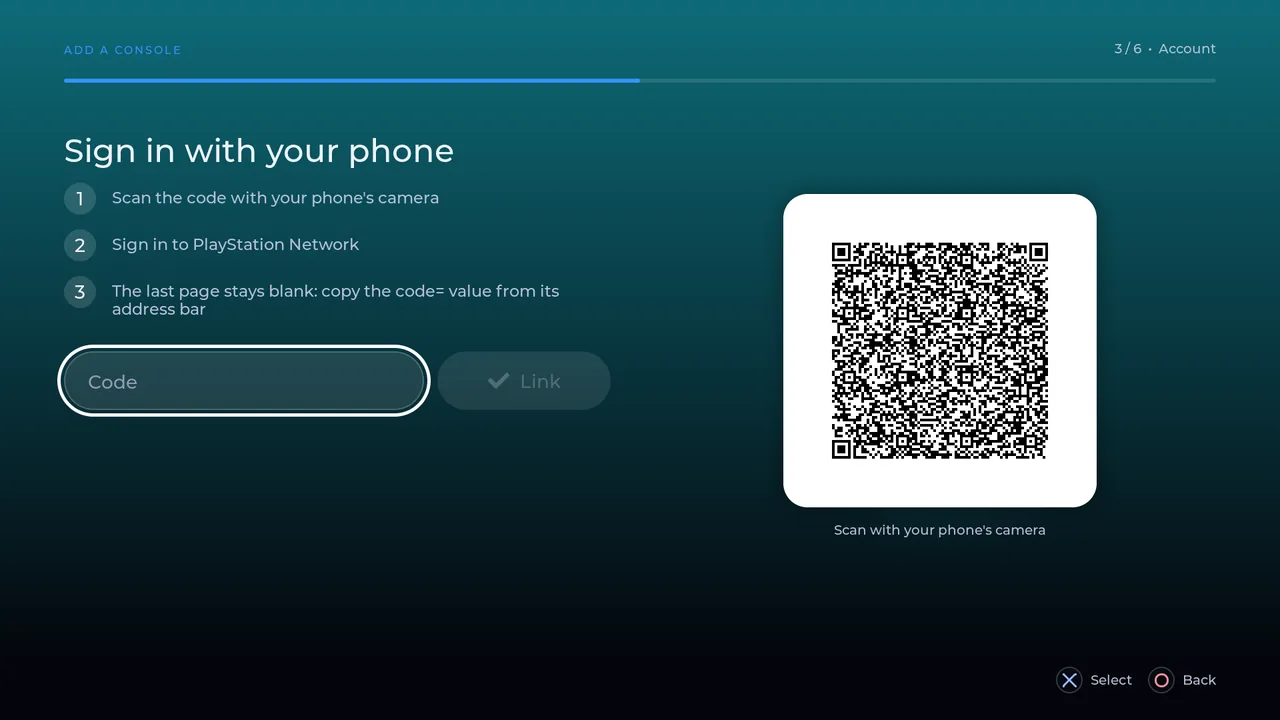
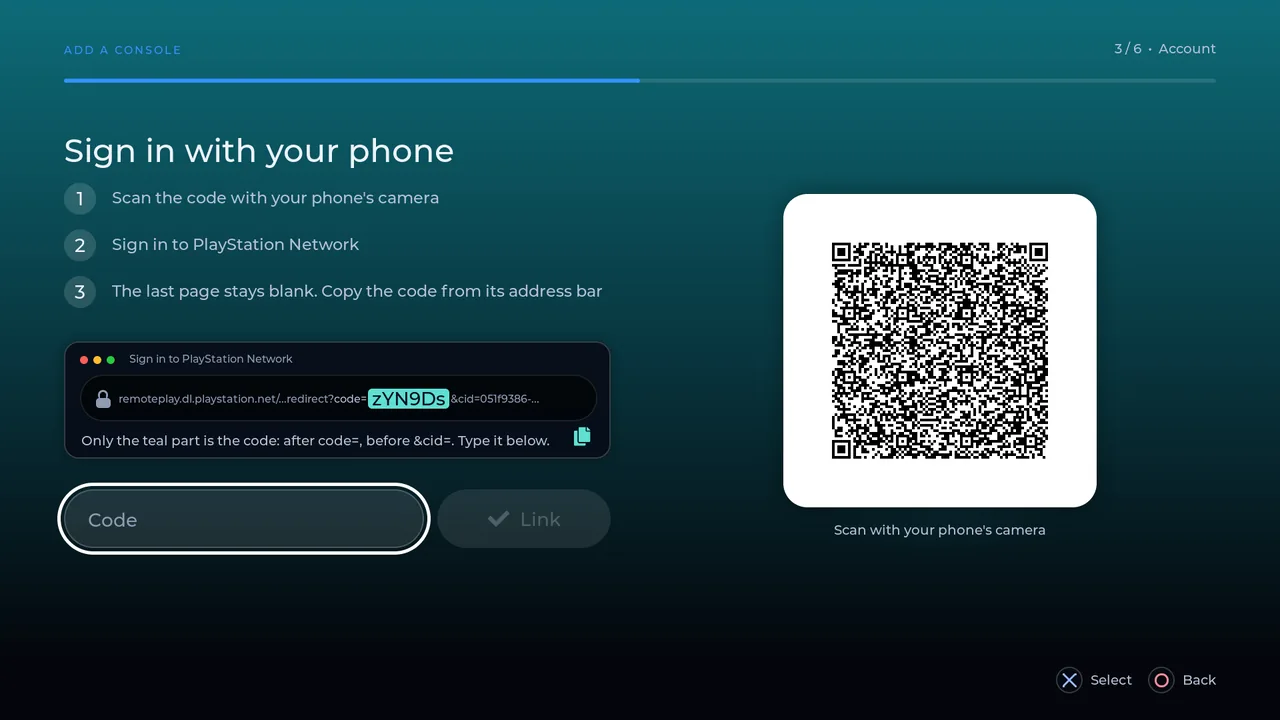
enhance: show the PSN code in a browser window on the sign-in screen

diff --git a/src/ui/register.c b/src/ui/register.c
@@ -551,11 +551,74 @@ static void done_show(void) {
 
 /* ----- PSN sign-in ----- */
 
+/* The redirect page's address, drawn as the browser window it is. The code ends where the cid
+ * starts, so both boundaries stay on screen and only the code is lit. The values are examples;
+ * the phone shows the live ones. */
+#define PSN_ADDR_URL  "remoteplay.dl.playstation.net/...redirect?"
+#define PSN_ADDR_CODE "zYN9Ds"
+#define PSN_ADDR_TAIL "&cid=051f9386-..."
+
+/* a padlock, drawn: an arch over a body, as a browser shows a secure page */
+static lv_obj_t *psn_lock(lv_obj_t *parent) {
+    lv_obj_t *o = ctl_obj(parent);
+    lv_obj_set_size(o, 22, 27);
+    lv_obj_t *sh = ctl_obj(o);
+    lv_obj_set_size(sh, 15, 15);
+    lv_obj_set_pos(sh, 3, 0);
+    lv_obj_set_style_radius(sh, LV_RADIUS_CIRCLE, 0);
+    lv_obj_set_style_border_width(sh, 3, 0);
+    lv_obj_set_style_border_color(sh, C(COL_MUTED), 0);
+    lv_obj_set_style_border_side(sh, LV_BORDER_SIDE_LEFT | LV_BORDER_SIDE_TOP | LV_BORDER_SIDE_RIGHT, 0);
+    lv_obj_set_pos(ctl_rect(o, 22, 15, 5, COL_MUTED, LV_OPA_COVER), 0, 12);
+    return o;
+}
+
+/* the address bar: the address, code= and the code, then the cid that follows it */
+static lv_obj_t *psn_addr_bar(lv_obj_t *parent) {
+    lv_obj_t *bar = ctl_rect(parent, MAIN_W - 44, 70, 35, COL_SHADE, 150);
+    lv_obj_set_style_border_width(bar, 2, 0);
+    lv_obj_set_style_border_color(bar, lv_color_white(), 0);
+    lv_obj_set_style_border_opa(bar, 28, 0);
+    lv_obj_t *lock = psn_lock(bar);
+    lv_obj_align(lock, LV_ALIGN_LEFT_MID, 22, 1);
+    lv_obj_t *url = ctl_label(bar, FONT_SMALL, COL_MUTED, PSN_ADDR_URL);
+    lv_obj_align_to(url, lock, LV_ALIGN_OUT_RIGHT_MID, 12, 0);
+    lv_obj_t *eq = ctl_label(bar, FONT_SMALL, COL_SUBTLE, "code=");
+    lv_obj_align_to(eq, url, LV_ALIGN_OUT_RIGHT_MID, 0, 0);
+    lv_obj_t *code = ctl_label(bar, FONT_HEADING, COL_ON_FROST, PSN_ADDR_CODE);
+    lv_obj_set_style_bg_color(code, C(COL_PSN_HI), 0);
+    lv_obj_set_style_bg_opa(code, LV_OPA_COVER, 0);
+    lv_obj_set_style_radius(code, 6, 0);
+    lv_obj_set_style_pad_hor(code, 6, 0);
+    lv_obj_align_to(code, eq, LV_ALIGN_OUT_RIGHT_MID, 2, 0);
+    lv_obj_t *tail = ctl_label(bar, FONT_SMALL, COL_MUTED, PSN_ADDR_TAIL);
+    lv_obj_align_to(tail, code, LV_ALIGN_OUT_RIGHT_MID, 2, 0);
+    return bar;
+}
+
+/* the browser window: its dots, the tab, the address bar, and the line that says what to type */
+static void psn_browser(lv_obj_t *m) {
+    lv_obj_t *win = ctl_rect(m, MAIN_W, 176, 22, COL_SHEET, 225);
+    frost(win, LV_OPA_20);
+    lv_obj_set_style_shadow_width(win, 40, 0);
+    lv_obj_set_style_shadow_opa(win, LV_OPA_40, 0);
+    static const uint32_t dots[3] = { 0xff5f57, 0xffbd2e, 0x28c840 };
+    for (int i = 0; i < 3; i++)
+        lv_obj_set_pos(ctl_rect(win, 12, 12, LV_RADIUS_CIRCLE, dots[i], LV_OPA_COVER), 22 + i * 20, 20);
+    lv_obj_set_pos(ctl_label(win, FONT_SMALL, COL_MUTED, "Sign in to PlayStation Network"), 96, 15);
+    lv_obj_set_pos(psn_addr_bar(win), 22, 48);
+    lv_obj_set_pos(ctl_label(win, FONT_CAPTION, COL_SUBTLE,
+                             "Only the teal part is the code: after code=, before &cid=. Type it below."),
+                   24, 136);
+    lv_obj_t *cp = ctl_label(win, FONT_HEADING, COL_PSN_HI, LV_SYMBOL_COPY);
+    lv_obj_align(cp, LV_ALIGN_BOTTOM_RIGHT, -28, -16);
+}
+
 static void build_psn(void) {
     lv_obj_t *m = col(REG_PSN);
     title(m, "Sign in with your phone");
     static const char *const steps[3] = { "Scan the code with your phone's camera", "Sign in to PlayStation Network",
-                                          "The last page stays blank: copy the code= value from its address bar" };
+                                          "The last page stays blank. Copy the code from its address bar" };
     for (int i = 0; i < 3; i++) {
         lv_obj_t *r = ctl_obj(m);
         lv_obj_set_size(r, MAIN_W, LV_SIZE_CONTENT);
@@ -565,6 +628,8 @@ static void build_psn(void) {
         lv_obj_set_pos(wrap(r, FONT_BODY, COL_SUBTLE, steps[i], MAIN_W - 72), 72, 9);
     }
     space(m, 6);
+    psn_browser(m);
+    space(m, 2);
     field_row(m, "Code", 64, &R.code_ta, &R.link_btn, "Link");
     R.psn_msg = wrap(m, FONT_BODY, COL_DANGER_TEXT, "", MAIN_W);
     lv_coord_t s = 470;
